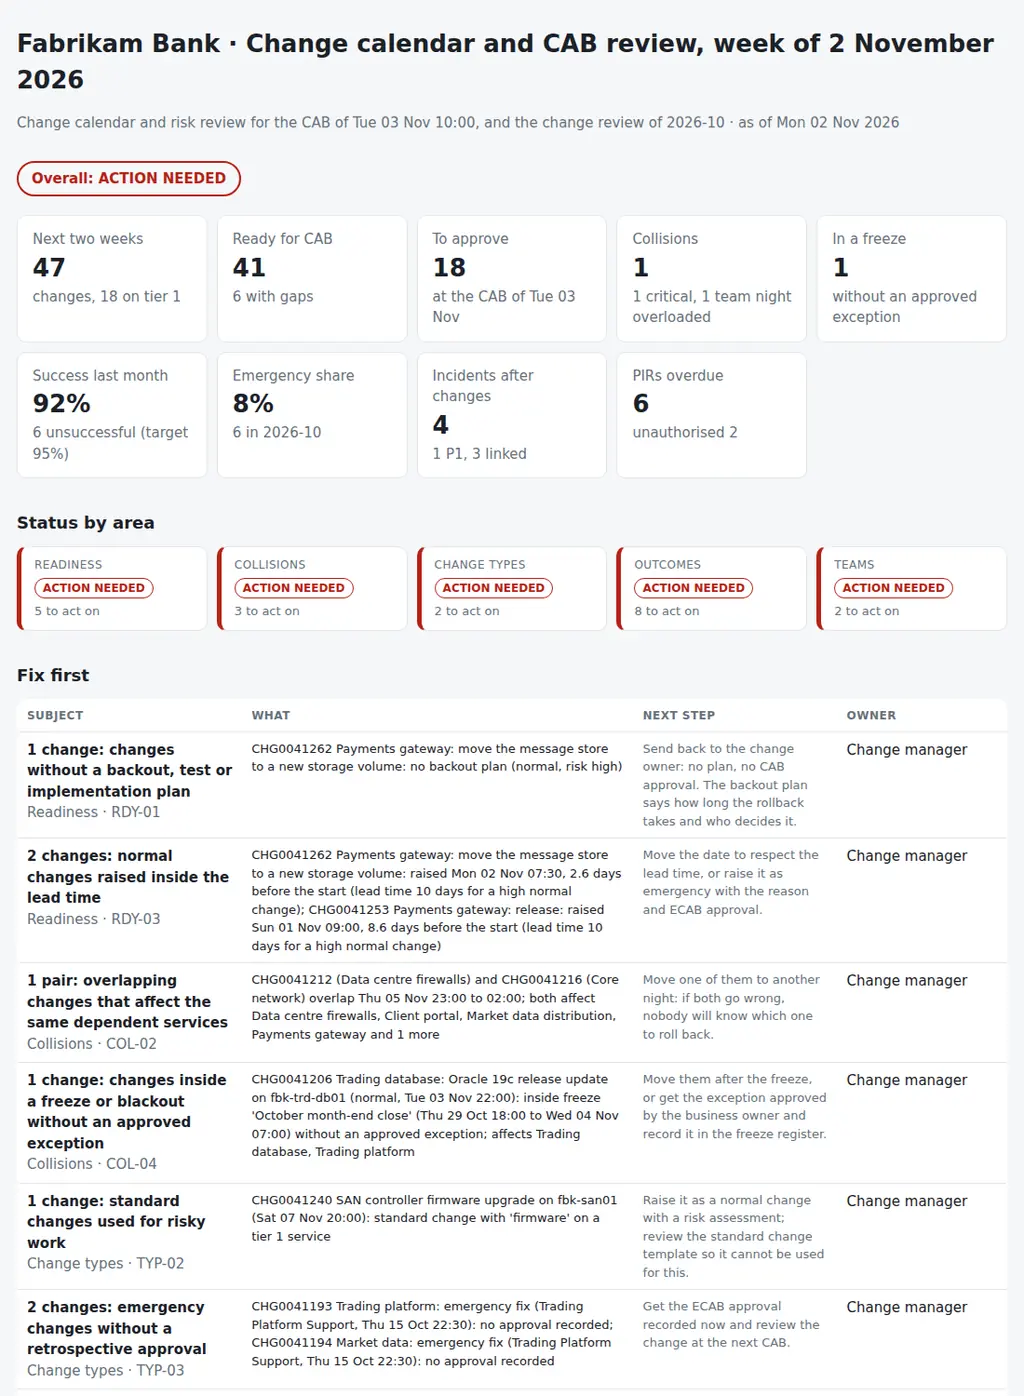
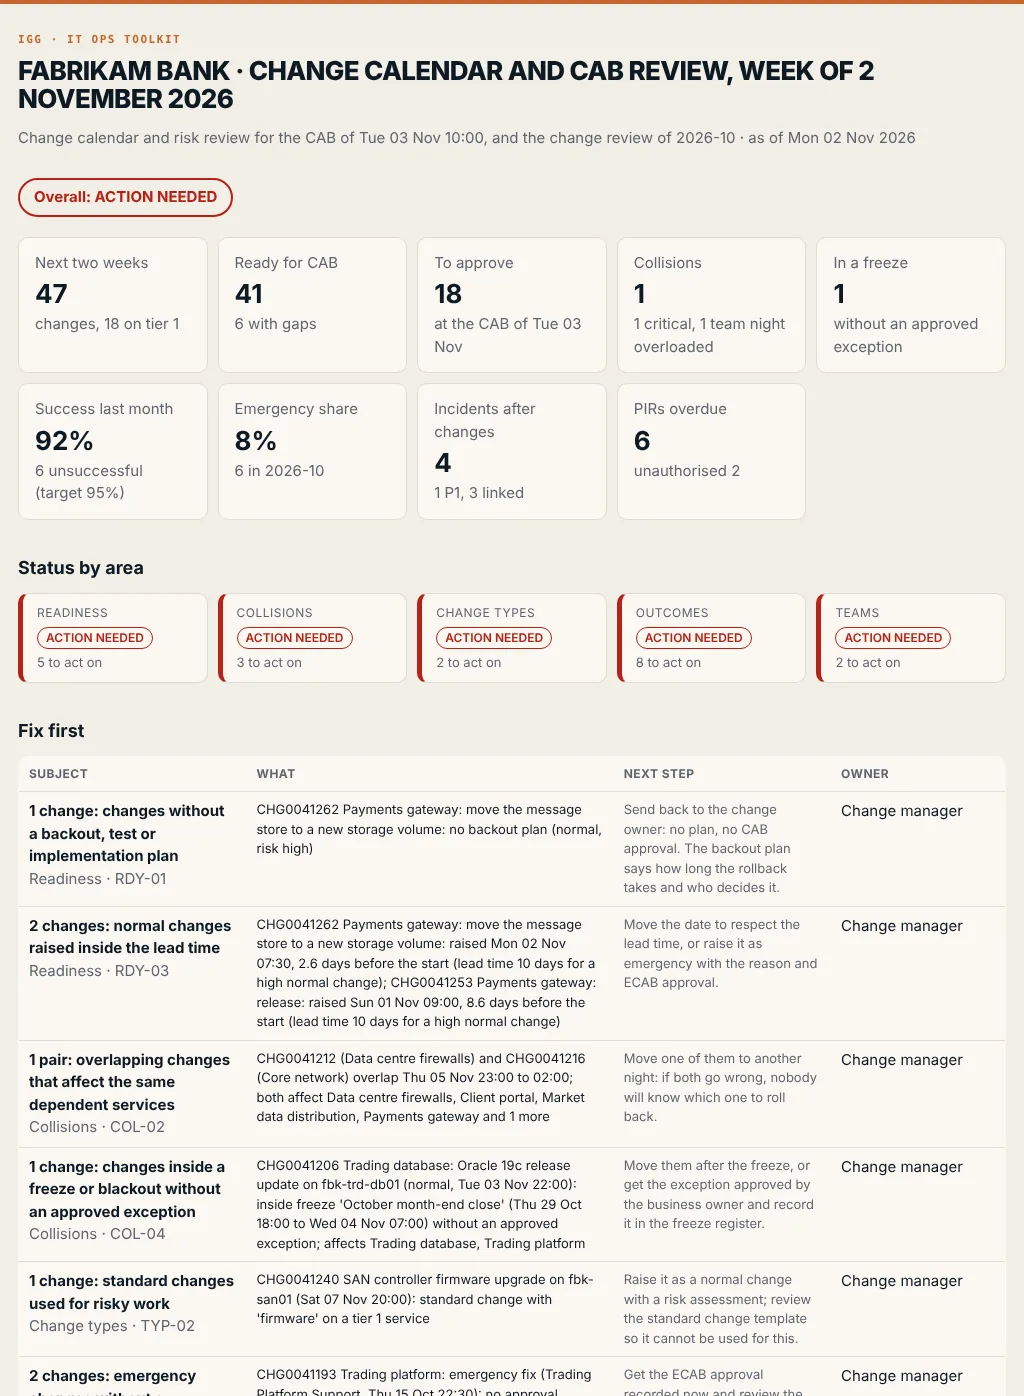
Report: IGG colours (paper, ink and the orange accent) and a new screenshot

diff --git a/changecal/report.py b/changecal/report.py
@@ -271,9 +271,9 @@ def pack_md(d: Data, rv: dict, findings: list[Finding], title: str) -> str:
 # ---------------------------------------------------------------- html
 
 CSS = """
-:root{--bg:#f6f7f8;--card:#fff;--ink:#1b2128;--muted:#66717c;--line:#e2e5e9;--ok:#1e7a4c;--warn:#a46200;--bad:#b42318;--info:#0b6bcb;--bar:#3d6fb4;--frz:#eef1f6}
-@media (prefers-color-scheme:dark){:root{--bg:#13171b;--card:#1b2127;--ink:#e7eaee;--muted:#9aa5b0;--line:#2b333b;--ok:#4cc38a;--warn:#f0a83a;--bad:#f2685c;--info:#5aa9f0;--bar:#6c9be0;--frz:#232b35}}
-*{box-sizing:border-box}body{margin:0;background:var(--bg);color:var(--ink);font:15px/1.5 system-ui,-apple-system,Segoe UI,sans-serif}
+:root{--bg:#f2eee6;--card:#fbf8f3;--ink:#0e1a24;--muted:#5d6670;--line:#e2dccf;--ok:#1e7a4c;--warn:#a46200;--bad:#b42318;--info:#1f5f8b;--bar:#3d6fb4;--frz:#eef1f6}
+@media (prefers-color-scheme:dark){:root{--bg:#0e1a24;--card:#142331;--ink:#f2eee6;--muted:#a9b3bb;--line:#24364a;--ok:#4cc38a;--warn:#f0a83a;--bad:#f2685c;--info:#5aa9f0;--bar:#6c9be0;--frz:#232b35}}
+*{box-sizing:border-box}body{border-top:4px solid #c4672b}h1{font-weight:800;letter-spacing:-.025em;text-transform:uppercase;line-height:1.05}h1::before{content:"IGG · IT Ops toolkit";display:block;font:600 11px/1.4 ui-monospace,SFMono-Regular,Menlo,monospace;letter-spacing:.14em;text-transform:uppercase;color:#c4672b;margin-bottom:10px}body{margin:0;background:var(--bg);color:var(--ink);font:15px/1.5 system-ui,-apple-system,Segoe UI,sans-serif}
 main{max-width:1100px;margin:0 auto;padding:28px 18px 60px}h1{font-size:26px;margin:0 0 4px}h2{font-size:18px;margin:34px 0 12px}
 .muted{color:var(--muted)}.tiles{display:grid;grid-template-columns:repeat(auto-fit,minmax(170px,1fr));gap:10px;margin-top:20px}
 .tile{background:var(--card);border:1px solid var(--line);border-radius:10px;padding:14px 16px}.tile b{display:block;font-size:26px}
